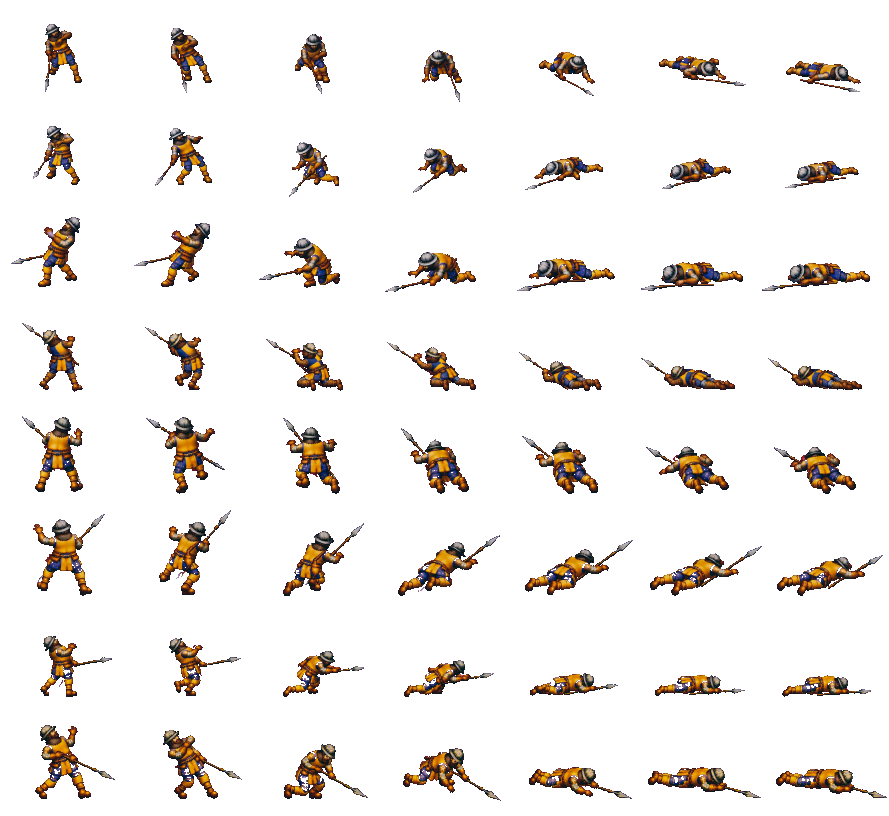
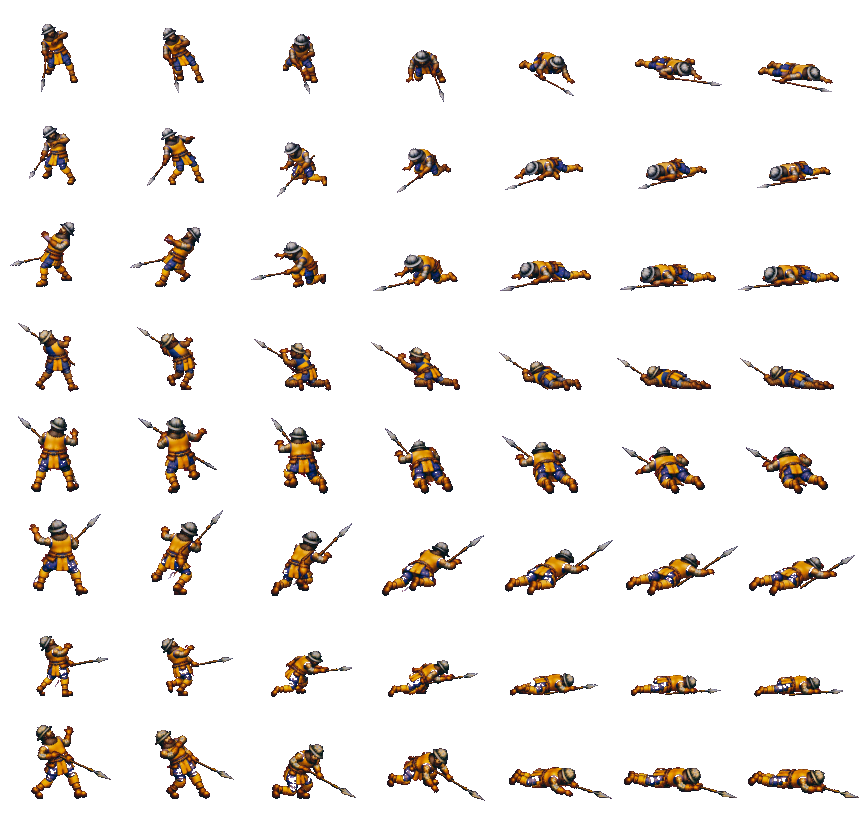
Lopen W van de speerman met de bouw van vel 1
Dezelfde pas en de speer vooruit, maar de bouw en de grijze helm van het staande vel. Staan en de andere looprichtingen
blijven pixel voor pixel hetzelfde.

diff --git a/beelden/beschrijving.js b/beelden/beschrijving.js
@@ -585,11 +585,11 @@
        "snelheid": 1.5,
        "stap": 0.6,
        "cel": [
-        92,
+        90,
         90
        ],
        "anker": [
-        46,
+        44,
         88
        ]
       },
@@ -613,11 +613,11 @@
        "fps": 8,
        "herhaal": false,
        "cel": [
-        127,
+        123,
         102
        ],
        "anker": [
-        60,
+        56,
         83
        ]
       }

diff --git a/ontwerp/werklijst.md b/ontwerp/werklijst.md
@@ -32,7 +32,7 @@ de pijplijn van vraag 180 (Q, f; niet in de cloud). **Bezig in sessie `lokaal-da
 **nieuwe weg** (Marcel, 21 okt: "Ok, dan zullen we moeten inventariseren welke gebouwen en poppetjes we nodig hebben. Dan
 kunnen we de andere generator deze 1 voor 1 laten maken. Jij moet dan zorgen dat ze passend worden in het spel"): de
 generator van zijn plaat maakt de bron, wij maken het passend; eerst de inventaris (`beelden-van-de-generator.md`). De
-speerman staat en loopt in het spel in acht richtingen (21 okt, de masterprompt); de aanval in alle acht richtingen en alle 25 vellen staan erin, en lopen O, W en NO opnieuw met bewegende benen (22 okt); **wacht op Marcel**: lopen W en NO met de bouw van vel 1 (O is binnen), `beelden-van-de-generator.md` (in
+speerman staat en loopt in het spel in acht richtingen (21 okt, de masterprompt); de aanval in alle acht richtingen en alle 25 vellen staan erin, en lopen O, W en NO opnieuw met bewegende benen (22 okt); **wacht op Marcel**: lopen NO met de bouw van vel 1 (O en W zijn binnen), `beelden-van-de-generator.md` (in
 het nieuwe gesprek, `beelden-van-de-generator.md`), en eventueel 3 en 4 opnieuw (de punt naar achteren).
 
 **Marcels acht punten van 20 okt** (R, vraag 182 tot 189: egaliseren met de schop, de maat van de huizen, dragers, een
